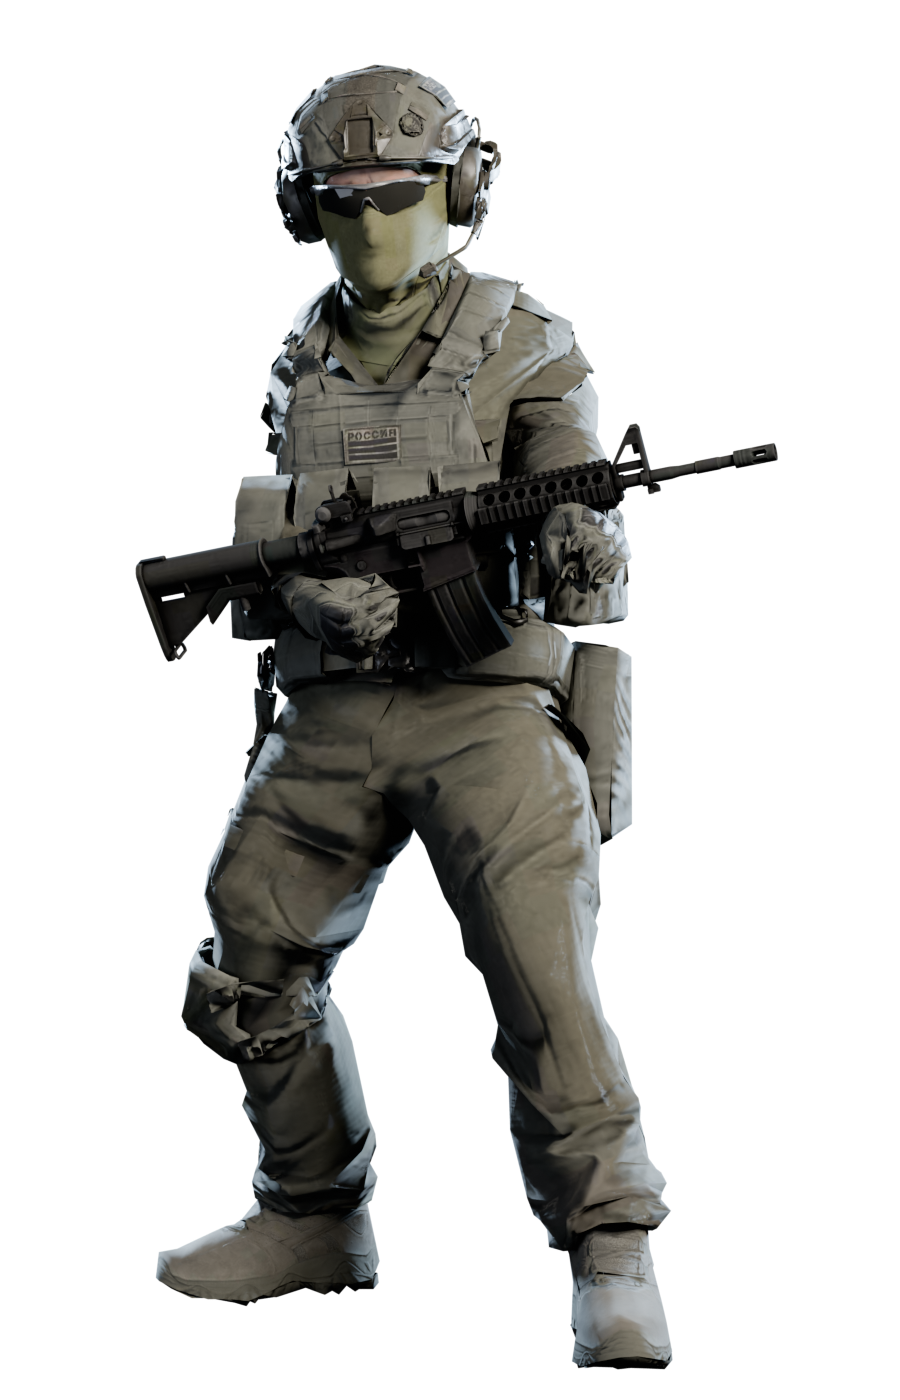
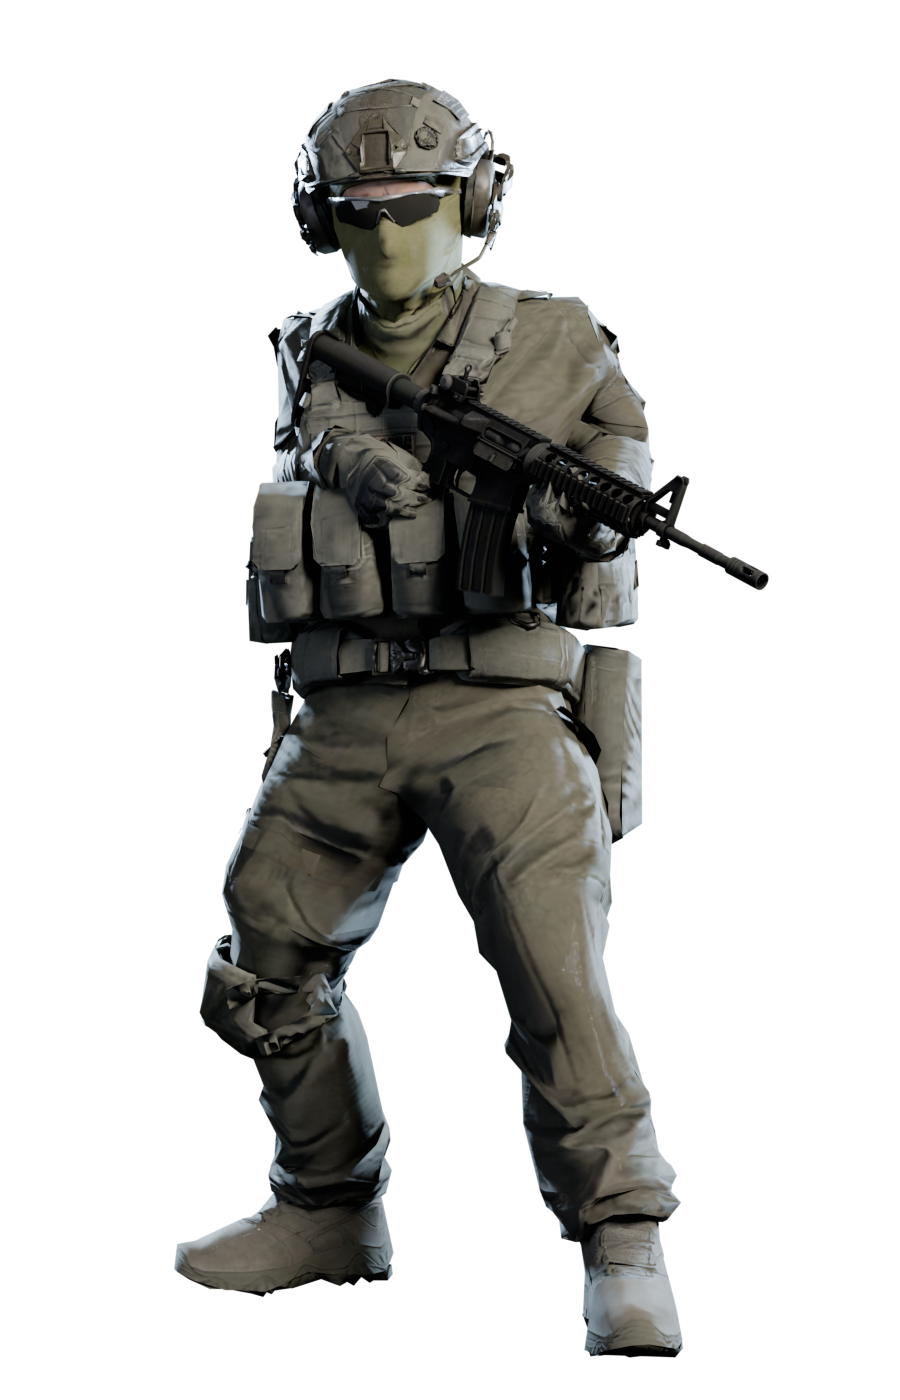
Improve menu operators rifle grip and carry pose

Changed region(s): [[0.1556, 0.0307, 0.8711, 0.9829], [0.1556, 0.8907, 0.3111, 0.9521]]

diff --git a/tools/models/menu_art.py b/tools/models/menu_art.py
@@ -6,7 +6,7 @@
   side, muzzle to the right, in white with studio shading and cavities, on transparent ground; the menu tints them.
   Equipment the game has no model for (vest, helmet, kit, flash and smoke grenades) is built here from primitives.
 - operators (`assets/ui/operator-ksk.png`, `operator-opfor.png`, 900×1400): a soldier of each side in its idle pose,
-  a rifle on the chest socket as in the game, lit key/rim/fill with Cycles on transparent ground, for the lobby.
+  a rifle fitted to both hands at low ready, lit key/rim/fill with Cycles on transparent ground, for the lobby.
 """
 
 import math
@@ -271,8 +271,13 @@ def empty(name, location):
     return o
 
 
-# Where the hands go on each rifle (its own frame: muzzle +Y, up +Z): the pistol grip and under the handguard.
-HOLDS = {"m4.glb": (Vector((0.0, 0.10, 0.0)), Vector((0.0, 0.44, 0.04))), "ak.glb": (Vector((0.0, 0.09, 0.0)), Vector((0.0, 0.44, 0.04)))}
+# Contact points measured on each prop in Blender space (+Y muzzle, +Z up).
+# The rifles have different origins and handguard lengths; sharing these points
+# put the AK support hand on its barrel and left the M4 trigger hand behind its grip.
+HOLDS = {
+    "m4.glb": {"butt": (-0.028, -0.145, 0.065), "R": (-0.028, 0.115, -0.020), "L": (-0.028, 0.365, 0.075)},
+    "ak.glb": {"butt": (0.016, -0.180, 0.030), "R": (0.016, 0.075, -0.012), "L": (0.016, 0.325, 0.075)},
+}
 
 
 def frame(forward, up_hint):
@@ -283,90 +288,104 @@ def frame(forward, up_hint):
     return Matrix((x, y, z)).transposed()
 
 
+def finger_chain(first):
+    return [first, first.children[0], first.children[0].children[0]]
+
+
+def grasp_center(w, chain):
+    """Centre of the curled middle finger, rather than the back of the palm."""
+    return sum([w @ b.head for b in chain] + [w @ chain[-1].tail], Vector()) / 4
+
+
 def low_ready(arm, rifle):
-    """The rifle at the low ready with both hands on it. The idle clip is a rifle idle: its hands already hold an
-    (invisible) rifle, fingers curled. So the rifle is fitted into those hands (pistol grip in the right palm, handguard
-    in the left), then rifle and hands are tilted down together about the right hand; IK takes each wrist to its
-    tilted place and the hands keep their grip by copying their tilted rotation."""
-    w = arm.matrix_world
+    """Fit each hand independently to the rifle, then solve only the two arm bones.
+
+    The retargeted idle provides curled fingers, not a reliable weapon orientation.
+    Derive a grasp frame from each hand's knuckles: the right wraps the pistol grip;
+    the left cups the handguard. Anchor the butt ahead of the right shoulder and
+    point the muzzle down/forward. Leave the clavicles and torso in their idle pose.
+    """
+    w = arm.matrix_world.copy()
     hand = {s: bone(arm, rf"({s}_Hand|{'Left' if s == 'L' else 'Right'}Hand)_\d+$") for s in "LR"}
     mid = {s: bone(arm, rf"({s}_Mid1|{'Left' if s == 'L' else 'Right'}HandMiddle1)_\d+$") for s in "LR"}
+    index = {s: bone(arm, rf"({s}_Index1|{'Left' if s == 'L' else 'Right'}HandIndex1)_\d+$") for s in "LR"}
     fore = {s: bone(arm, rf"({s}_Forearm|{'Left' if s == 'L' else 'Right'}ForeArm)_\d+$") for s in "LR"}
     upper = {s: bone(arm, rf"({s}_Upperarm|{'Left' if s == 'L' else 'Right'}Arm)_\d+$") for s in "LR"}
-    palm = {s: (w @ hand[s].head + w @ mid[s].head) / 2 for s in "LR"}
-    wrist = {s: w @ hand[s].head for s in "LR"}
-    hand_rot = {s: (w @ hand[s].matrix).to_3x3().normalized() for s in "LR"}
-    grip, fore_grip = HOLDS[rifle]
-    # The rifle in the idle hands.
-    fit = frame(palm["L"] - palm["R"], Vector((0, 0, 1))) @ frame(fore_grip - grip, Vector((0, 0, 1))).inverted()
-    fit_loc = palm["R"] - fit @ grip
-    # The carry: the rifle across the body, nearly level, muzzle to the soldier's left and a little up and
-    # forward, its top rolled out; the pistol grip in front of the stomach (clear of the vest), a little right of
-    # the middle. (The soldiers face -Y; their left is +X.)
     shoulder = {s: w @ upper[s].head for s in "LR"}
-    reach_of = {s: (w @ fore[s].head - shoulder[s]).length + (w @ hand[s].head - w @ fore[s].head).length for s in "LR"}
-    width = (shoulder["L"] - shoulder["R"]).length
-    mid_sh = (shoulder["L"] + shoulder["R"]) / 2
-    env = lambda k, v: [float(x) for x in os.environ.get(k, v).split(",")]
-    d = Vector(env("CARRY_DIR", "1,-0.2,0.28")).normalized()
-    roll = Vector(env("CARRY_UP", "0,-0.45,1"))
-    gx, gy, gz = env("CARRY_GRIP", "-0.22,-0.3,-0.42")
-    grip_at = mid_sh + Vector((gx * width, gy, gz))
-    carry = frame(d, roll) @ frame(fore_grip - grip, Vector((0, 0, 1))).inverted()
-    # Hands and rifle move together from the idle hold into the carry.
-    rel = carry @ fit.inverted()
-    pivot = palm["R"]
-    tilt = rel
-
-    def move(p):
-        return rel @ (p - pivot) + grip_at
-
+    contacts = HOLDS[rifle]
+    rot = frame(Vector((0.75, -0.55, -0.45)), Vector((0, 0, 1)))
+    loc = shoulder["R"] + Vector((0.025, -0.20, -0.055)) - rot @ Vector(contacts["butt"])
+    gun_transform = Matrix.Translation(loc) @ rot.to_4x4()
     gun = load(MODELS / rifle)
-    rot = tilt @ fit
-    for r in (o for o in gun if o.parent is None):
-        r.rotation_mode = "QUATERNION"
-        r.rotation_quaternion = rot.to_quaternion()
-        r.location = move(fit_loc)
-    # Elbows down, out and a little back.
-    poles = {"R": mid_sh + Vector((-width * 1.4, 0.35, -0.7)), "L": mid_sh + Vector((width * 1.4, 0.35, -0.7))}
+    for root in (o for o in gun if o.parent is None):
+        root.matrix_world = gun_transform @ root.matrix_world
+
     for s in "LR":
-        # On the hand, without its tail: the chain is collarbone, upper arm and forearm (the shoulder gives a little
-        # reach, as a real one does), and what reaches the target is the wrist itself.
-        c = hand[s].constraints.new("IK")
-        c.use_tail = False
-        c.target = empty(f"ik-{s}", move(wrist[s]))
-        pole = empty(f"pole-{s}", poles[s])
-        c.pole_target = pole
-        c.chain_count = 3
-        # The pole angle that turns the elbow towards the pole differs by rig: try them, keep the one that does.
+        chain = finger_chain(mid[s])
+        center = grasp_center(w, chain)
+        wrist = w @ hand[s].head
+        row = w @ index[s].head - w @ mid[s].head
+        source = frame(w @ mid[s].head - wrist, row) if s == "R" else frame(row, w.to_3x3() @ (chain[1].head - mid[s].head))
+        relative = rot @ source.inverted()
+        grip = loc + rot @ Vector(contacts[s])
+        goal = grip + relative @ (wrist - center)
+        hand_rotation = (relative @ (w @ hand[s].matrix).to_3x3().normalized()).to_quaternion()
+
+        # Keep elbows below the shoulders. A two-bone chain avoids the unnatural
+        # clavicle lift caused by including the shoulder in the previous solve.
+        ik = fore[s].constraints.new("IK")
+        ik.use_tail = True
+        ik.target = empty(f"ik-{s}", goal)
+        ik.chain_count = 2
+        ik.use_stretch = False
+        pole = empty(f"pole-{s}", shoulder[s] + Vector((-0.18 if s == "R" else 0.16, 0.04, -0.42)))
+        ik.pole_target = pole
         best = None
-        for deg in range(-180, 180, 15):
-            c.pole_angle = math.radians(deg)
+        for deg in range(-180, 180, 10):
+            ik.pole_angle = math.radians(deg)
             bpy.context.view_layer.update()
-            elbow = arm.matrix_world @ fore[s].head
-            dist = (elbow - pole.location).length
-            if best is None or dist < best[0]:
-                best = (dist, deg)
-        c.pole_angle = math.radians(best[1])
-        # One rig's hands sit a fixed step away from where the chain ends: aim off by the error until the wrist lands.
-        goal = move(wrist[s])
-        for _ in range(8):
+            distance = (w @ fore[s].head - pole.location).length
+            if best is None or distance < best[0]:
+                best = (distance, deg)
+        ik.pole_angle = math.radians(best[1])
+        # Imported rigs can offset the hand head from the forearm tail.
+        for _ in range(10):
             bpy.context.view_layer.update()
-            miss = arm.matrix_world @ hand[s].head - goal
-            if miss.length < 0.003:
+            error = w @ hand[s].head - goal
+            if error.length < 0.002:
                 break
-            c.target.location -= miss
-        # The hand keeps its grip: its idle rotation, tilted with the rifle.
-        grip_to = empty(f"grip-{s}", move(wrist[s]))
-        grip_to.rotation_mode = "QUATERNION"
-        grip_to.rotation_quaternion = (tilt @ hand_rot[s]).to_quaternion()
-        cr = hand[s].constraints.new("COPY_ROTATION")
-        cr.target = grip_to
-        cr.target_space = "WORLD"
-        cr.owner_space = "WORLD"
+            ik.target.location -= error
+        orient = empty(f"grip-{s}", goal)
+        orient.rotation_mode = "QUATERNION"
+        orient.rotation_quaternion = hand_rotation
+        constraint = hand[s].constraints.new("COPY_ROTATION")
+        constraint.target = orient
+        constraint.target_space = "WORLD"
+        constraint.owner_space = "WORLD"
         bpy.context.view_layer.update()
-        reach = (arm.matrix_world @ hand[s].head - move(wrist[s])).length
-        print(f"  {s} hand: pole angle {best[1]}°, wrist {reach * 100:.1f} cm from its place; shoulder→target {(move(wrist[s]) - shoulder[s]).length:.2f} m, arm {reach_of[s]:.2f} m")
+
+        # Rotation can shift the curled fingers on the imported, scaled rigs.
+        # Finish the solve against the actual posed contact, not just the wrist.
+        for _ in range(12):
+            error = grasp_center(w, chain) - grip
+            if error.length < 0.002:
+                break
+            ik.target.location -= error
+            bpy.context.view_layer.update()
+
+        if s == "R":
+            # The resting index finger follows the receiver outside the trigger guard.
+            for j, finger in enumerate(finger_chain(index[s])):
+                head = w @ finger.head
+                direction = (w.to_3x3() @ (finger.tail - finger.head)).normalized()
+                aim = (rot @ Vector((0, 1, -0.04 * j))).normalized()
+                delta = direction.rotation_difference(aim).to_matrix().to_4x4()
+                finger.matrix = w.inverted() @ Matrix.Translation(head) @ delta @ Matrix.Translation(-head) @ w @ finger.matrix
+                bpy.context.view_layer.update()
+        error = (grasp_center(w, chain) - grip).length
+        print(f"  {s} grip error: {error * 1000:.1f} mm; elbow pole {best[1]}°")
+        if error > 0.005:
+            raise RuntimeError(f"{rifle}: {s} hand missed its grip by {error:.3f} m")
 
 
 def operator(side, soldier, rifle, key_color, rim_color):

diff --git a/docs/VALIDATION.md b/docs/VALIDATION.md
@@ -64,3 +64,16 @@ public so Pages and public-repository runners can be used.
   the two-column layout introduced in 0.1.4.
 - The native build passed; scripted clicks loaded all four maps. The website and
   README menu image were refreshed from the restored layout.
+
+## Menu rifle carry (0.1.6)
+
+- Reposed both menu operators using separate M4/AK grip points, a lowered muzzle,
+  shoulder-adjacent stock, and two-bone arm solves that preserve the clavicles.
+  The support hand cups the handguard and the resting index follows the receiver.
+- The Blender render script checks the posed grasp centres against their targets;
+  all four contacts finished within 1.1 mm. Both transparent assets were rendered
+  at 900 × 1400 and inspected in native 1920 × 1080 menu captures, including a
+  scripted switch from KSK to OPFOR.
+- The native client/server build and relocated Linux bundle smoke check passed.
+  The website/README menu capture and gallery thumbnail were refreshed.
+  This change affects menu portraits, not gameplay weapon animations.
